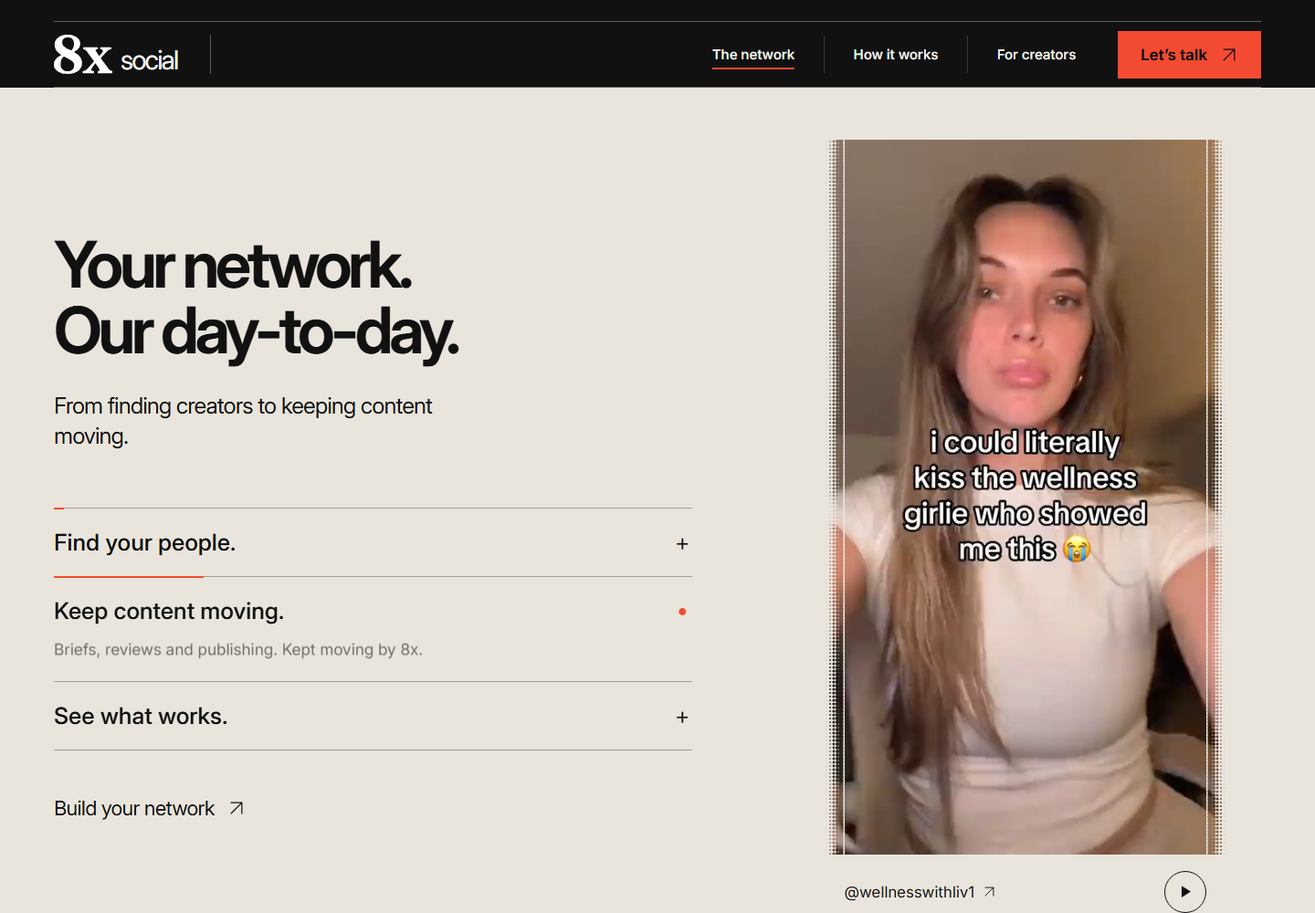
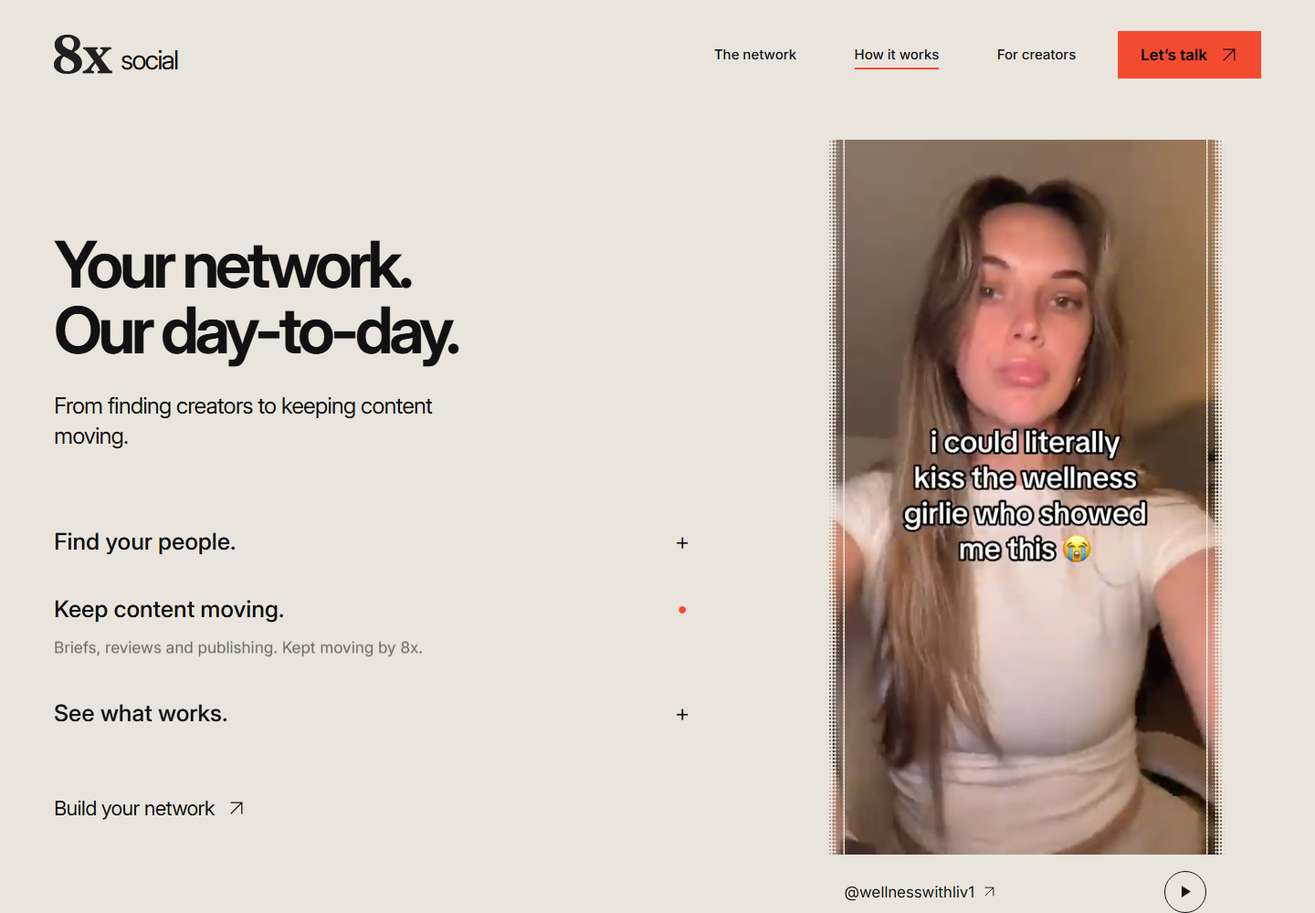
Build continuous comparison and remove section dividers

diff --git a/app/globals.css b/app/globals.css
@@ -1,6 +1,6 @@
 :root{--ink:#111111;--paper:#f4f3ee;--signal:#f34b32;--quiet:#b9b8b3;--line:#ffffff2b;--gutter:clamp(24px,4.1vw,80px);--max:1800px;color-scheme:dark}
 *{box-sizing:border-box}
-html{scroll-behavior:smooth;scroll-padding-top:125px}
+html{scroll-padding-top:125px}
 body{margin:0;background:var(--ink);color:var(--paper);font-family:var(--font-brand),Arial,Helvetica,sans-serif;-webkit-font-smoothing:antialiased}
 button,input,a{-webkit-tap-highlight-color:transparent}
 button,input{font:inherit}
@@ -16,14 +16,15 @@ svg{width:24px;height:24px;flex:none}
 .page-width{width:calc(100% - var(--gutter)*2);max-width:var(--max);margin-inline:auto}
 .skip-link{position:fixed;top:12px;left:12px;z-index:100;background:var(--paper);color:var(--ink);padding:14px;transform:translateY(-200%)}
 .skip-link:focus{transform:none}
-.site-header{position:sticky;top:0;z-index:30;background:var(--ink);padding:23px var(--gutter) 0;isolation:isolate}
-.nav-rail{display:flex;align-items:center;justify-content:space-between;min-height:73px;border-block:1px solid #ffffff55;max-width:var(--max);margin:auto}
-.brand{display:flex;align-items:flex-end;gap:9px;padding-right:36px;border-right:1px solid #ffffff50;line-height:1}
+.site-header{--nav-surface:var(--ink);position:sticky;top:0;z-index:30;background:var(--nav-surface);padding:23px var(--gutter) 0;isolation:isolate;transition:background-color .18s,color .18s}
+.site-header[data-surface=stone]{--nav-surface:#e9e5dc;color:#111;color-scheme:light}
+.site-header[data-surface=stone] .brand img{filter:none}
+.nav-rail{display:flex;align-items:center;justify-content:space-between;min-height:73px;max-width:var(--max);margin:auto}
+.brand{display:flex;align-items:flex-end;gap:9px;padding-right:36px;line-height:1}
 .brand img{width:64px;height:auto;filter:invert(1) brightness(1.2)}
 .brand span{font-size:29px;letter-spacing:-1.8px;font-weight:400;margin-bottom:1px}
 .nav-rail nav{display:flex;align-items:center;gap:0}
 .nav-link{font-size:15px;font-weight:520;position:relative;line-height:1;padding:13px clamp(18px,2.2vw,38px);transition:color .2s}
-.nav-link+.nav-link{border-left:1px solid var(--line)}
 .nav-link::after{content:'';height:2px;background:var(--signal);position:absolute;bottom:4px;left:clamp(18px,2.2vw,38px);right:clamp(18px,2.2vw,38px);transform:scaleX(0);transform-origin:left;transition:transform .25s cubic-bezier(.2,.7,.2,1)}
 .nav-link[aria-current]::after,.nav-link:hover::after{transform:scaleX(1)}
 .nav-contact{display:flex;align-items:center;justify-content:center;gap:14px;background:var(--signal);color:#0c0c0c;min-height:52px;padding:0 25px;margin-left:14px;font-weight:650;font-size:17px;transition:background .2s}
@@ -102,7 +103,7 @@ h2{margin:0;font-weight:640;letter-spacing:-.058em;line-height:1.05;font-size:cl
 .progress-marker{width:12px;height:12px;border-radius:50%;background:var(--signal);position:absolute;top:16px;left:16px;transform:translateX(calc(var(--active-step)*98px));transition:transform .25s cubic-bezier(.2,.75,.2,1);pointer-events:none;z-index:3}
 .work-journey[data-entered=true] .video-rail{animation:media-arrive .3s ease-out both}
 @keyframes media-arrive{from{transform:translateY(12px);opacity:.5}to{transform:none;opacity:1}}
-.site-footer{padding:75px 0 28px;margin-top:110px;border-top:1px solid var(--line)}
+.site-footer{padding:75px 0 28px;margin-top:110px}
 .site-footer>a{display:flex;align-items:center;justify-content:space-between;font-size:clamp(27px,3.5vw,60px);font-weight:520;letter-spacing:-.04em}
 .site-footer>a svg{width:36px;height:36px;color:var(--signal);transition:transform .25s}
 .site-footer>a:hover svg{transform:translate(4px,-4px)}
@@ -133,7 +134,7 @@ h2{margin:0;font-weight:640;letter-spacing:-.058em;line-height:1.05;font-size:cl
 html{scroll-padding-top:100px}
 .site-header{padding-top:12px}.nav-rail{min-height:61px}.brand img{width:49px}.brand span{font-size:24px}
 .menu-toggle{display:flex;align-items:center;gap:22px;background:transparent;border:0;padding:12px 0 12px 16px;font-size:14px}.menu-toggle span{color:var(--signal);font-size:25px;line-height:1}
-.nav-rail nav{display:none;position:absolute;top:100%;left:0;right:0;padding:20px var(--gutter) 28px;background:var(--ink);border-bottom:1px solid var(--line);flex-direction:column;align-items:stretch;gap:3px}
+.nav-rail nav{display:none;position:absolute;top:100%;left:0;right:0;padding:20px var(--gutter) 28px;background:var(--nav-surface);flex-direction:column;align-items:stretch;gap:3px}
 .site-header[data-menu-open=true] nav{display:flex}
 .nav-link{font-size:21px;padding:15px 0;width:fit-content}.nav-link+.nav-link{border:0}.nav-link:after{left:0;right:0;bottom:7px}.nav-contact{margin:15px 0 0;width:fit-content;padding:0 25px;font-size:17px;min-height:48px;gap:20px}
 .hero{padding-top:35px}.hero-reading{display:block}h1{font-size:clamp(64px,14.7vw,107px);line-height:.94;letter-spacing:-.067em}.hero-offer{padding-top:28px;display:flex;gap:22px;align-items:flex-start;justify-content:space-between}.hero-offer p{font-size:clamp(16px,2.6vw,20px);line-height:1.35;max-width:20ch}.hero-cta{font-size:13px;gap:10px;margin-top:2px;max-width:130px;align-items:center}.hero-cta>span:first-child{max-width:78px;line-height:1.3}.arrow-disc{width:38px;height:38px}

diff --git a/components/network-comparison.tsx b/components/network-comparison.tsx
@@ -1,0 +1,90 @@
+'use client';
+
+import { useEffect, useRef, useState, type KeyboardEvent } from 'react';
+import { Arrow } from './icons';
+import { links } from '@/lib/content';
+
+const modes = [
+  { id: 'network', label: '8x network', items: [
+    ['Creator-led', 'content', 'Creators make and publish in their own voice.'],
+    ['Organic', 'distribution', 'Content reaches people through the feed.'],
+    ['Managed', 'end to end', 'Briefs, reviews, payments. Handled by 8x.'],
+  ] },
+  { id: 'influencers', label: 'Influencers', items: [
+    ['Sponsored', 'content', 'Creators feature your brand in sponsored posts.'],
+    ['Creator', 'audiences', 'Distribution through the creator’s existing audience.'],
+    ['Campaign', 'partnerships', 'Scope and delivery agreed with the creator or agency.'],
+  ] },
+  { id: 'ads', label: 'Paid ads', items: [
+    ['Ad', 'creative', 'Creative produced for advertising placements.'],
+    ['Paid', 'distribution', 'Placement funded by your media spend.'],
+    ['Campaign', 'controls', 'Targeting, budgets and optimisation through ad tools.'],
+  ] },
+] as const;
+
+function DotGlyph({ mode, column }: { mode: number; column: number }) {
+  return <svg className="comparison-glyph" viewBox="0 0 100 100" aria-hidden="true">
+    {Array.from({ length: 36 }, (_, i) => {
+      const size = mode === 0 && column !== 1 ? 4 : 6;
+      const slot = i % (size * size);
+      let x = 8 + slot % size * (72 / (size - 1));
+      let y = 8 + Math.floor(slot / size) * (72 / (size - 1));
+      if (mode === 1) {
+        const group = Math.floor(i / 12);
+        const angle = (i % 12) / 12 * Math.PI * 2;
+        x = [25, 67, 46][group] + Math.cos(angle) * 18;
+        y = [26, 26, 67][group] + Math.sin(angle) * 18;
+      }
+      if (mode === 2) x += Math.floor(i / 6) % 2 * 5;
+      const accent = mode === 0 ? (column === 1 ? [8, 9, 10].includes(i) : i === 6) : mode === 1 ? i % 12 === column * 3 : Math.floor(i / 6) === column + 1;
+      return <circle key={i} r="3.5" style={{ transform: `translate(${x}px, ${y}px)`, opacity: i < size * size ? 1 : 0, fill: accent ? '#f34b32' : '#111', transitionDelay: `${i % 6 * 12}ms` }} />;
+    })}
+  </svg>;
+}
+
+export function NetworkComparison() {
+  const [active, setActive] = useState(0);
+  const [entered, setEntered] = useState(false);
+  const root = useRef<HTMLElement>(null);
+  const tabs = useRef<(HTMLButtonElement | null)[]>([]);
+  useEffect(() => {
+    const observer = new IntersectionObserver(([entry]) => {
+      if (entry.isIntersecting) { setEntered(true); observer.disconnect(); }
+    }, { threshold: .12 });
+    if (root.current) observer.observe(root.current);
+    return () => observer.disconnect();
+  }, []);
+  const onKeyDown = (event: KeyboardEvent<HTMLButtonElement>, index: number) => {
+    let next: number;
+    if (event.key === 'ArrowRight') next = (index + 1) % modes.length;
+    else if (event.key === 'ArrowLeft') next = (index + modes.length - 1) % modes.length;
+    else if (event.key === 'Home') next = 0;
+    else if (event.key === 'End') next = modes.length - 1;
+    else return;
+    event.preventDefault();
+    setActive(next);
+    tabs.current[next]?.focus();
+  };
+
+  return <section ref={root} id="comparison" className="network-comparison" aria-labelledby="comparison-title" data-entered={entered}>
+    <div className="page-width">
+      <div className="comparison-intro">
+        <h2 id="comparison-title">A different way<br />to grow<span>.</span></h2>
+        <p>Creator networks bring content, distribution and daily management together.</p>
+      </div>
+      <div className="comparison-tabs" role="tablist" aria-label="Compare ways to reach your audience">
+        {modes.map((mode, index) => <button key={mode.id} ref={el => { tabs.current[index] = el; }} role="tab" id={'comparison-tab-' + mode.id} aria-selected={active === index} aria-controls={'comparison-panel-' + mode.id} tabIndex={active === index ? 0 : -1} onClick={() => setActive(index)} onKeyDown={event => onKeyDown(event, index)}>{mode.label}</button>)}
+      </div>
+      <div className="comparison-glyphs" aria-hidden="true">{[0, 1, 2].map(column => <DotGlyph key={column} mode={active} column={column} />)}</div>
+      {/* Layer intrinsic layouts so the longest mode reserves its space at every width. */}
+      <div className="comparison-panels">
+        {modes.map((mode, index) => <div key={mode.id} role="tabpanel" id={'comparison-panel-' + mode.id} aria-labelledby={'comparison-tab-' + mode.id} className="comparison-panel" data-active={active === index} aria-hidden={active !== index} inert={active !== index} tabIndex={active === index ? 0 : -1}>
+          {mode.items.map(([first, second, body]) => <div className="comparison-benefit" key={first}>
+            <h3>{first}<br />{' '}{second}<span>.</span></h3><p>{body}</p>
+          </div>)}
+        </div>)}
+      </div>
+      <a className="comparison-cta" href={links.build}>Build your network<Arrow /></a>
+    </div>
+  </section>;
+}

diff --git a/app/network-comparison.css b/app/network-comparison.css
@@ -1,0 +1,28 @@
+.network-comparison{background:#e9e5dc;color:#111;color-scheme:light;padding:48px 0 96px;scroll-margin-top:120px}
+.comparison-intro{display:grid;grid-template-columns:minmax(0,1.3fr) minmax(0,1fr);gap:7%;align-items:end}
+.comparison-intro h2{font-size:clamp(49px,7vw,126px);line-height:.99;letter-spacing:-.068em;font-weight:660}
+.comparison-intro h2 span,.comparison-benefit h3 span{color:#f34b32}
+.comparison-intro>p{font-size:clamp(19px,1.85vw,29px);line-height:1.4;letter-spacing:-.035em;max-width:33ch;margin:0 0 4px}
+.comparison-tabs{display:flex;gap:clamp(24px,3vw,54px);align-items:center;margin:64px 0 54px;flex-wrap:wrap}
+.comparison-tabs button{position:relative;border:0;background:none;padding:12px 0 12px 25px;font-size:clamp(18px,1.85vw,29px);letter-spacing:-.045em;font-weight:600;color:#79766f;line-height:1.2;transition:color .16s;text-align:left;min-height:44px}
+.comparison-tabs button::before{content:'';position:absolute;left:0;top:50%;width:11px;height:11px;border-radius:50%;background:#f34b32;transform:translateY(-50%) scale(.45);opacity:0;transition:opacity .18s,transform .25s}
+.comparison-tabs button[aria-selected=true]{color:#111}.comparison-tabs button[aria-selected=true]::before{opacity:1;transform:translateY(-50%) scale(1)}
+.comparison-tabs button:hover{color:#111}
+.comparison-glyphs,.comparison-panel{display:grid;grid-template-columns:repeat(3,minmax(0,1fr));column-gap:7%}
+.comparison-glyphs{margin-bottom:23px}
+.comparison-glyph{display:block;width:88px;height:88px;overflow:visible}
+.comparison-glyph circle{transition:transform .28s cubic-bezier(.2,.7,.2,1),fill .22s,opacity .2s}
+.network-comparison[data-entered=true] .comparison-glyph{animation:comparison-arrive .6s ease-out both}
+.network-comparison[data-entered=true] .comparison-glyph:nth-child(2){animation-delay:.07s}.network-comparison[data-entered=true] .comparison-glyph:nth-child(3){animation-delay:.14s}
+@keyframes comparison-arrive{from{opacity:.2;transform:translateY(8px)}to{opacity:1;transform:none}}
+.comparison-panels{display:grid}
+.comparison-panel{grid-area:1/1;opacity:0;visibility:hidden;pointer-events:none;transition:opacity .16s,visibility .16s}
+.comparison-panel[data-active=true]{opacity:1;visibility:visible;pointer-events:auto}
+.comparison-benefit{min-width:0}
+.comparison-benefit h3{font-size:clamp(30px,3.85vw,69px);font-weight:620;letter-spacing:-.055em;line-height:1.06;margin:0}
+.comparison-benefit p{font-size:clamp(17px,1.55vw,26px);line-height:1.42;letter-spacing:-.027em;color:#44413b;margin:22px 0 0;max-width:26ch}
+.comparison-cta{display:flex;align-items:center;gap:14px;width:fit-content;margin-top:54px;font-size:clamp(18px,1.65vw,25px);letter-spacing:-.035em}
+.comparison-cta svg{width:22px;height:22px;transition:transform .2s}.comparison-cta:hover svg{transform:translate(3px,-3px)}
+@media(max-width:1000px){.comparison-intro{grid-template-columns:1.25fr 1fr;gap:5%}.comparison-intro h2{font-size:6.5vw}.comparison-intro>p{font-size:20px}.comparison-glyphs,.comparison-panel{column-gap:5%}.comparison-benefit h3{font-size:3.8vw}.comparison-tabs{margin-block:44px 36px}.comparison-tabs button{font-size:20px}.comparison-glyph{width:74px;height:74px}}
+@media(max-width:720px){.network-comparison{padding:30px 0 65px;scroll-margin-top:100px}.comparison-intro{display:block}.comparison-intro h2{font-size:clamp(43px,10.9vw,72px)}.comparison-intro>p{font-size:19px;max-width:32ch;margin-top:26px}.comparison-tabs{gap:6px;justify-content:space-between;flex-wrap:nowrap;margin:30px 0}.comparison-tabs button{font-size:clamp(14px,3.8vw,20px);padding-left:15px;letter-spacing:-.035em}.comparison-tabs button::before{width:7px;height:7px}.comparison-glyphs{display:none}.comparison-panel{grid-template-columns:1fr;gap:32px}.comparison-benefit{position:relative;padding-left:25px}.comparison-benefit::before{content:'';position:absolute;left:0;top:12px;width:7px;height:7px;background:#f34b32;border-radius:50%}.comparison-benefit h3{font-size:clamp(28px,7.5vw,40px)}.comparison-benefit h3 br{display:none}.comparison-benefit h3 br::after{content:' '}.comparison-benefit p{font-size:17px;max-width:32ch;margin-top:12px}.comparison-cta{font-size:18px;margin-top:35px}}
+@media(prefers-reduced-motion:reduce){.network-comparison *,.network-comparison *::before{animation:none!important;transition:none!important}}

diff --git a/tests/network-comparison.spec.ts b/tests/network-comparison.spec.ts
@@ -1,0 +1,56 @@
+import { test, expect } from '@playwright/test';
+
+test('comparison continues the page and switches modes without moving its layout', async ({ page }) => {
+  const errors: string[] = [];
+  page.on('pageerror', error => errors.push(error.message));
+  await page.goto('/#comparison');
+  const section = page.locator('#comparison');
+  await expect(section).toHaveAttribute('data-entered', 'true');
+  await expect(page.locator('.site-header')).toHaveAttribute('data-surface', 'stone');
+  await expect(page.getByRole('link', { name: 'How it works', exact: true })).toHaveAttribute('aria-current', 'location');
+  await expect(section).toHaveCSS('background-color', 'rgb(233, 229, 220)');
+  expect(await section.evaluate(el => Math.abs(el.getBoundingClientRect().top - document.getElementById('reach')!.getBoundingClientRect().bottom))).toBeLessThan(1);
+  const geometry = () => section.evaluate(el => ({ height: el.getBoundingClientRect().height, footer: document.querySelector('footer')!.getBoundingClientRect().top + scrollY }));
+  const before = await geometry();
+  const dot = page.locator('.comparison-glyphs circle').first();
+  const originalDot = await dot.getAttribute('style');
+  await page.getByRole('tab', { name: '8x network', exact: true }).focus();
+  await page.keyboard.press('ArrowRight');
+  await expect(page.getByRole('tab', { name: 'Influencers', exact: true })).toBeFocused();
+  await expect(page.getByRole('tabpanel')).toHaveCount(1);
+  await expect(page.getByRole('tabpanel')).toHaveAccessibleName('Influencers');
+  await expect(page.getByRole('heading', { name: 'Sponsored content.' })).toBeVisible();
+  expect(await dot.getAttribute('style')).not.toEqual(originalDot);
+  expect(await geometry()).toEqual(before);
+  await page.keyboard.press('End');
+  await expect(page.getByRole('tab', { name: 'Paid ads', exact: true })).toBeFocused();
+  await expect(page.getByRole('heading', { name: 'Paid distribution.' })).toBeVisible();
+  expect(await geometry()).toEqual(before);
+  await page.keyboard.press('Home');
+  await expect(page.getByRole('tabpanel')).toHaveAccessibleName('8x network');
+  await page.getByRole('tab', { name: '8x network', exact: true }).click();
+  await expect(page.getByRole('tabpanel')).toHaveCSS('opacity', '1');
+  await page.locator('.comparison-glyphs').evaluate(el => Promise.all(el.getAnimations({ subtree: true }).map(animation => animation.finished)));
+  await page.screenshot({ path: 'docs/qa/comparison-desktop.png' });
+  expect(errors).toEqual([]);
+});
+
+test('comparison remains usable on narrow screens and respects reduced motion', async ({ page }) => {
+  await page.emulateMedia({ reducedMotion: 'reduce' });
+  await page.setViewportSize({ width: 390, height: 844 });
+  await page.goto('/#comparison');
+  const section = page.locator('#comparison');
+  const before = await section.evaluate(el => el.getBoundingClientRect().height);
+  await page.getByRole('tab', { name: 'Paid ads', exact: true }).click();
+  await expect(page.getByRole('heading', { name: 'Campaign controls.' })).toBeVisible();
+  expect(await section.evaluate(el => el.getBoundingClientRect().height)).toBe(before);
+  await expect(page.locator('.comparison-glyphs circle').first()).toHaveCSS('transition-duration', '0s');
+  for (const width of [320, 390, 768, 1440, 2558]) {
+    await page.setViewportSize({ width, height: 1000 });
+    expect(await page.evaluate(() => document.documentElement.scrollWidth <= innerWidth)).toBe(true);
+  }
+  await page.setViewportSize({ width: 390, height: 844 });
+  await page.getByRole('tab', { name: '8x network', exact: true }).click();
+  await section.evaluate(el => scrollTo({ top: el.getBoundingClientRect().top + scrollY - 90, behavior: 'instant' }));
+  await page.screenshot({ path: 'docs/qa/comparison-mobile.png' });
+});

diff --git a/app/day-to-day.css b/app/day-to-day.css
@@ -1,13 +1,10 @@
-.day-to-day{--stone:#e9e5dc;position:relative;background:var(--stone);color:#111;margin-top:100px;padding:100px 0 110px;color-scheme:light;scroll-margin-top:96px}
+.day-to-day{--stone:#e9e5dc;position:relative;background:var(--stone);color:#111;margin-top:100px;padding:100px 0 60px;color-scheme:light;scroll-margin-top:96px}
 .raster-seam{position:absolute;top:-1px;left:0;width:100%;height:28px;pointer-events:none}
 .day-grid{display:grid;grid-template-columns:minmax(0,1.15fr) minmax(0,.85fr);gap:8%;align-items:center}
 .day-reading h2{font-size:clamp(40px,4.9vw,89px);line-height:1.02;letter-spacing:-.064em;font-weight:660}
 .day-description{font-size:clamp(19px,1.7vw,29px);line-height:1.35;letter-spacing:-.034em;max-width:32ch;margin:30px 0 0}
 .day-steps{margin-top:62px;min-height:280px}
-.day-step{border-top:1px solid #1115;position:relative}
-.day-step:last-child{border-bottom:1px solid #1115}
-.day-step::before{content:'';height:2px;width:25%;position:absolute;top:-1px;left:0;background:#f34b32;transform:scaleX(0);transform-origin:left;transition:transform .24s}
-.day-step[data-active=true]::before{transform:scaleX(1)}
+.day-step{position:relative}
 .day-step h3{font-weight:530;font-size:clamp(18px,1.75vw,29px);letter-spacing:-.04em;margin:0}
 .day-step button{display:flex;width:100%;align-items:center;justify-content:space-between;text-align:left;color:inherit;border:0;background:none;padding:22px 0;gap:20px;font:inherit}
 .day-step button span{font-size:26px;font-weight:350;line-height:1;width:22px;text-align:center}
@@ -28,4 +25,4 @@
 @media(max-width:1100px){.day-grid{gap:5%}.day-reading h2{font-size:4.6vw}.day-steps{margin-top:38px}.day-description{font-size:21px}.day-step h3{font-size:22px}.day-step button{padding-block:19px}.day-cta{font-size:19px;margin-top:24px}}
 @media(max-width:720px){.day-to-day{margin-top:60px;padding:65px 0}.day-grid{grid-template-columns:1fr;gap:40px}.day-reading h2{font-size:clamp(36px,9.4vw,62px)}.day-description{font-size:19px;margin-top:24px}.day-steps{min-height:270px;margin-top:35px}.day-step h3{font-size:21px}.day-step p{font-size:16px}.day-figure{width:min(100%,380px)}.day-cta{margin-top:14px}.day-figure figcaption{font-size:15px}}
 
-.stone-continuation{background:#e9e5dc;color:#111;color-scheme:light}.stone-continuation .site-footer{margin-top:0;border-color:#1115}.stone-continuation .site-footer>div{color:#595750}.stone-continuation .site-footer>div a:hover{color:#111}
+.stone-continuation{background:#e9e5dc;color:#111;color-scheme:light}.stone-continuation .site-footer{margin-top:0}.stone-continuation .site-footer>div{color:#595750}.stone-continuation .site-footer>div a:hover{color:#111}

diff --git a/components/creator-work.tsx b/components/creator-work.tsx
@@ -28,6 +28,9 @@ export function CreatorWork() {
     const root = journey.current!, content = stage.current!;
     const motion = matchMedia('(prefers-reduced-motion: reduce)');
     let raf = 0, span = 0, stickyTop = 0;
+    let anchorFrame = 0, anchorCancelled = false;
+    const initialHash = window.location.hash;
+    const cancelAnchor = () => { anchorCancelled = true; cancelAnimationFrame(anchorFrame); };
     const measure = () => {
       setReduced(motion.matches);
       const height = content.getBoundingClientRect().height;
@@ -63,10 +66,27 @@ export function CreatorWork() {
     }, { rootMargin: '-90px 0px -12% 0px', threshold: .08 });
     visibility.observe(content);
     measure();
+    // Hydrating the reading interval changes the position of later anchors.
+    // Restore only the initial fragment, once fonts/layout settle, never after user input.
+    const anchorEvents = ['wheel', 'touchstart', 'pointerdown', 'keydown'] as const;
+    anchorEvents.forEach(type => window.addEventListener(type, cancelAnchor, { passive: true, once: true }));
+    const restoreAnchor = () => { void document.fonts.ready.then(() => {
+      if (anchorCancelled || !initialHash || window.location.hash !== initialHash) return;
+      anchorFrame = requestAnimationFrame(() => {
+        measure();
+        anchorFrame = requestAnimationFrame(() => {
+          if (anchorCancelled) return;
+          const target = document.getElementById(initialHash.slice(1));
+          if (target && (root.compareDocumentPosition(target) & Node.DOCUMENT_POSITION_FOLLOWING)) target.scrollIntoView({ behavior: 'instant', block: 'start' });
+        });
+      });
+    }); };
+    if (document.readyState === 'complete') restoreAnchor();
+    else window.addEventListener('load', restoreAnchor, { once: true });
     window.addEventListener('scroll', schedule, { passive: true });
     window.addEventListener('resize', measure);
     motion.addEventListener('change', measure);
-    return () => { cancelAnimationFrame(raf); observer.disconnect(); visibility.disconnect(); window.removeEventListener('scroll', schedule); window.removeEventListener('resize', measure); motion.removeEventListener('change', measure); };
+    return () => { cancelAnchor(); window.removeEventListener('load', restoreAnchor); anchorEvents.forEach(type => window.removeEventListener(type, cancelAnchor)); cancelAnimationFrame(raf); observer.disconnect(); visibility.disconnect(); window.removeEventListener('scroll', schedule); window.removeEventListener('resize', measure); motion.removeEventListener('change', measure); };
   }, []);
 
   useEffect(() => {

diff --git a/components/header.tsx b/components/header.tsx
@@ -6,10 +6,26 @@ import { links } from '@/lib/content';
 export function Header() {
   const [open, setOpen] = useState(false);
   const [section, setSection] = useState('network');
+  const [stone, setStone] = useState(false);
   const menuButton = useRef<HTMLButtonElement>(null);
   const header = useRef<HTMLElement>(null);
   useEffect(() => {
-    const targets = ['work', 'day-to-day', 'reach'].map(id => document.getElementById(id)).filter((el): el is HTMLElement => !!el);
+    const start = document.getElementById('day-to-day');
+    if (!start) return;
+    let frame = 0;
+    const update = () => {
+      frame = 0;
+      const edge = header.current?.getBoundingClientRect().bottom ?? 0;
+      setStone(start.getBoundingClientRect().top <= edge);
+    };
+    const queue = () => { if (!frame) frame = requestAnimationFrame(update); };
+    update();
+    window.addEventListener('scroll', queue, { passive: true });
+    window.addEventListener('resize', queue);
+    return () => { cancelAnimationFrame(frame); window.removeEventListener('scroll', queue); window.removeEventListener('resize', queue); };
+  }, []);
+  useEffect(() => {
+    const targets = ['work', 'day-to-day', 'reach', 'comparison'].map(id => document.getElementById(id)).filter((el): el is HTMLElement => !!el);
     const visible = new Set<Element>();
     const observer = new IntersectionObserver(entries => {
       for (const entry of entries) { if (entry.isIntersecting) visible.add(entry.target); else visible.delete(entry.target); }
@@ -26,7 +42,7 @@ export function Header() {
     document.addEventListener('pointerdown', outside);
     return () => { document.removeEventListener('keydown', close); document.removeEventListener('pointerdown', outside); };
   }, [open]);
-  return <header ref={header} className="site-header" data-menu-open={open}>
+  return <header ref={header} className="site-header" data-menu-open={open} data-surface={stone ? 'stone' : 'carbon'}>
     <div className="nav-rail">
       <a className="brand" href="#network" aria-label="8x Social — back to top" onClick={() => setOpen(false)}><img src="/8x.svg" alt="" width="68" height="47" /><span>social</span></a>
       <button ref={menuButton} className="menu-toggle" aria-expanded={open} aria-controls="main-navigation" onClick={() => setOpen(!open)}>{open ? 'Close' : 'Menu'}<span aria-hidden="true">{open ? '−' : '+'}</span></button>

diff --git a/tests/dot-reach.spec.ts b/tests/dot-reach.spec.ts
@@ -9,6 +9,8 @@ test('dot reach continues stone, uses unique footage and preserves a live raster
   expect(posters.join(' ')).not.toMatch(/judy|jack|network-v1/);
   const reach = page.locator('#reach');
   await reach.scrollIntoViewIfNeeded();
+  await expect(page.locator('.site-header')).toHaveAttribute('data-surface', 'stone');
+  await expect(page.locator('.site-header')).toHaveCSS('background-color', 'rgb(233, 229, 220)');
   await expect(page.getByRole('link',{name:'How it works',exact:true})).toHaveAttribute('aria-current','location');
   await expect(reach).toHaveCSS('background-color', 'rgb(233, 229, 220)');
   expect(await reach.evaluate(el => Math.abs(el.getBoundingClientRect().top - document.getElementById('day-to-day')!.getBoundingClientRect().bottom))).toBeLessThan(1);
@@ -24,6 +26,7 @@ test('dot reach continues stone, uses unique footage and preserves a live raster
   expect(after?.width).toBe(before?.width);expect(after?.height).toBe(before?.height);
   await page.screenshot({path:'docs/qa/dot-reach-desktop.png'});
   await page.evaluate(() => scrollTo({top:0,behavior:'instant'}));
+  await expect(page.locator('.site-header')).toHaveAttribute('data-surface', 'carbon');
   await expect.poll(() => page.locator('.reach-portrait video').evaluate((v:HTMLVideoElement) => v.paused)).toBe(true);
   await reach.scrollIntoViewIfNeeded();
   await expect(page.getByRole('button', {name:'Pause reach video',exact:true})).toBeVisible();

diff --git a/app/page.tsx b/app/page.tsx
@@ -3,11 +3,12 @@ import { Hero } from '@/components/hero';
 import { CreatorWork } from '@/components/creator-work';
 import { DayToDay } from '@/components/day-to-day';
 import { DotReach } from '@/components/dot-reach';
+import { NetworkComparison } from '@/components/network-comparison';
 import { Arrow } from '@/components/icons';
 import { links } from '@/lib/content';
 
 export default function Home() {
-  return <><Header /><main id="main"><Hero /><CreatorWork /><DayToDay /><DotReach /></main>
+  return <><Header /><main id="main"><Hero /><CreatorWork /><DayToDay /><DotReach /><NetworkComparison /></main>
     <div className="stone-continuation">
     <footer className="site-footer page-width"><a href={links.call}>Let’s build your network.<Arrow /></a><div><span>© {new Date().getFullYear()} 8x Social</span><a href={links.creators}>For creators<Arrow /></a><a href="https://www.8x.social/en/privacy">Privacy</a></div></footer>
     </div>

diff --git a/app/dot-reach.css b/app/dot-reach.css
@@ -1,5 +1,5 @@
 .dot-reach{background:#e9e5dc;color:#111;color-scheme:light;scroll-margin-top:110px}
-.reach-grid{border-top:1px solid #1115;display:grid;grid-template-columns:minmax(0,1fr) minmax(0,1fr);gap:4%;align-items:center;padding-block:72px 92px}
+.reach-grid{display:grid;grid-template-columns:minmax(0,1fr) minmax(0,1fr);gap:4%;align-items:center;padding-block:52px 64px}
 .reach-reading{padding-bottom:25px}
 .reach-reading h2{font-size:clamp(42px,5.7vw,104px);line-height:1;letter-spacing:-.063em;font-weight:640;white-space:nowrap}
 .reach-reading h2 span{color:#f34b32}

diff --git a/app/layout.tsx b/app/layout.tsx
@@ -3,6 +3,7 @@ import localFont from 'next/font/local';
 import './globals.css';
 import './day-to-day.css';
 import './dot-reach.css';
+import './network-comparison.css';
 
 const inter = localFont({ src: '../public/fonts/inter-latin-variable.woff2', weight: '100 900', variable: '--font-brand', display: 'swap' });
 export const metadata: Metadata = {

diff --git a/docs/IMPLEMENTATION.md b/docs/IMPLEMENTATION.md
@@ -10,6 +10,12 @@ Wide-screen edge correction: only the portrait layout retains the artwork width 
 
 ## Motion and media
 
+`components/network-comparison.tsx` and `app/network-comparison.css` implement the approved comparison after Dot Reach on the same #e9e5dc surface. The selector controls one shared panel, with the intrinsic heights of all modes reserved through a layered CSS grid. Inactive panels are inert and hidden from assistive technology. Arrow keys/Home/End select modes; Tab reaches the selected panel. 108 decorative SVG dots morph within three small fixed glyph bounds, with no animation framework or perpetual loop. Reduced motion disables transitions and the one-time entrance. Narrow layouts stack the explanations with orange bullets. Content avoids invented metrics or categorical claims about competitors.
+
+Initial deep links below the creator reading interval are restored once page/font layout settles, because the interval adds height during hydration. This is a one-time initial-fragment correction, cancelled by user input and on cleanup. It does not take control of normal scrolling. Removed global CSS smooth scrolling so the browser's initial anchor animation cannot finish at a stale pre-hydration position; native scrolling is unchanged and in-page links now land immediately.
+
+Continuity cleanup: removed top/bottom navigation rails and link dividers, Day-to-day accordion rules/active bars, Dot Reach top rule and footer rule. Desktop Day-to-day bottom padding is 60px and Reach padding is 52px/64px. The header follows the stone surface after its leading edge reaches the header and returns to carbon above it; scroll/resize reads are batched in one animation frame, with no idle loop. The mobile menu uses that same surface. Existing navigation feedback, keyboard focus and video controls remain. The map approach is still image-only, saved in design/continuous-reach-v1; rejected chart/fan proposals are not live.
+
 - On sufficiently large/tall desktop viewports, the content stage holds for 0.95 viewport height of additional native scroll, capped at 1100px. No wheel or touch interception. Media frames maintain identical geometry.
 - Scroll changes the active clip, caption, underline, brightness and progress dot. Only the active visible video plays; it starts muted. Offscreen and hidden-document videos pause.
 - Manual selection holds until another 110px of vertical scrolling. Explicitly enabled sound holds selection until the stage leaves view. Pausing is respected for that clip. Seeking, mute, playback and original-source links remain accessible.
@@ -20,7 +26,7 @@ Wide-screen edge correction: only the portrait layout retains the artwork width 
 
 ## Validation
 
-Production build and TypeScript checks pass. Ten serial Chromium behavioral tests pass, including Day-to-day and Dot Reach on the root route, distinct creator assets, fixed media geometry, working raster motion, reduced motion, video failure and offscreen playback. Responsive checks span 320–2558px. Browser visual review completed at desktop and phone sizes; Maggie playback was also verified in the in-app browser on 3904. Browser/device-specific Safari and Firefox verification has not been performed. Native autoplay policy can require the visible Play control.
+Production build and TypeScript checks pass. All twelve serial Chromium behavioral tests pass, including comparison mode switching, stable panel/footer geometry, keyboard navigation, direct fragment navigation, Day-to-day and Dot Reach on the root route, distinct creator assets, fixed media geometry, working raster motion, reduced motion, video failure and offscreen playback. Responsive checks span 320–2558px. Browser visual review completed at desktop and phone sizes; Maggie playback and comparison tabs were also verified in the in-app browser on 3904. Browser/device-specific Safari and Firefox verification has not been performed. Native autoplay policy can require the visible Play control.
 
 Day-to-day is included after CreatorWork, followed immediately by Dot Reach. Their CSS is in app/day-to-day.css and app/dot-reach.css. Both use #e9e5dc with no gap, colour wipe, transform of the full section or added sticky interval. The closing contact area continues this surface. The old concept route remains valid. Port 3904 is a local streaming proxy to the single production server on 3091 (npm run preview:alias).
 
